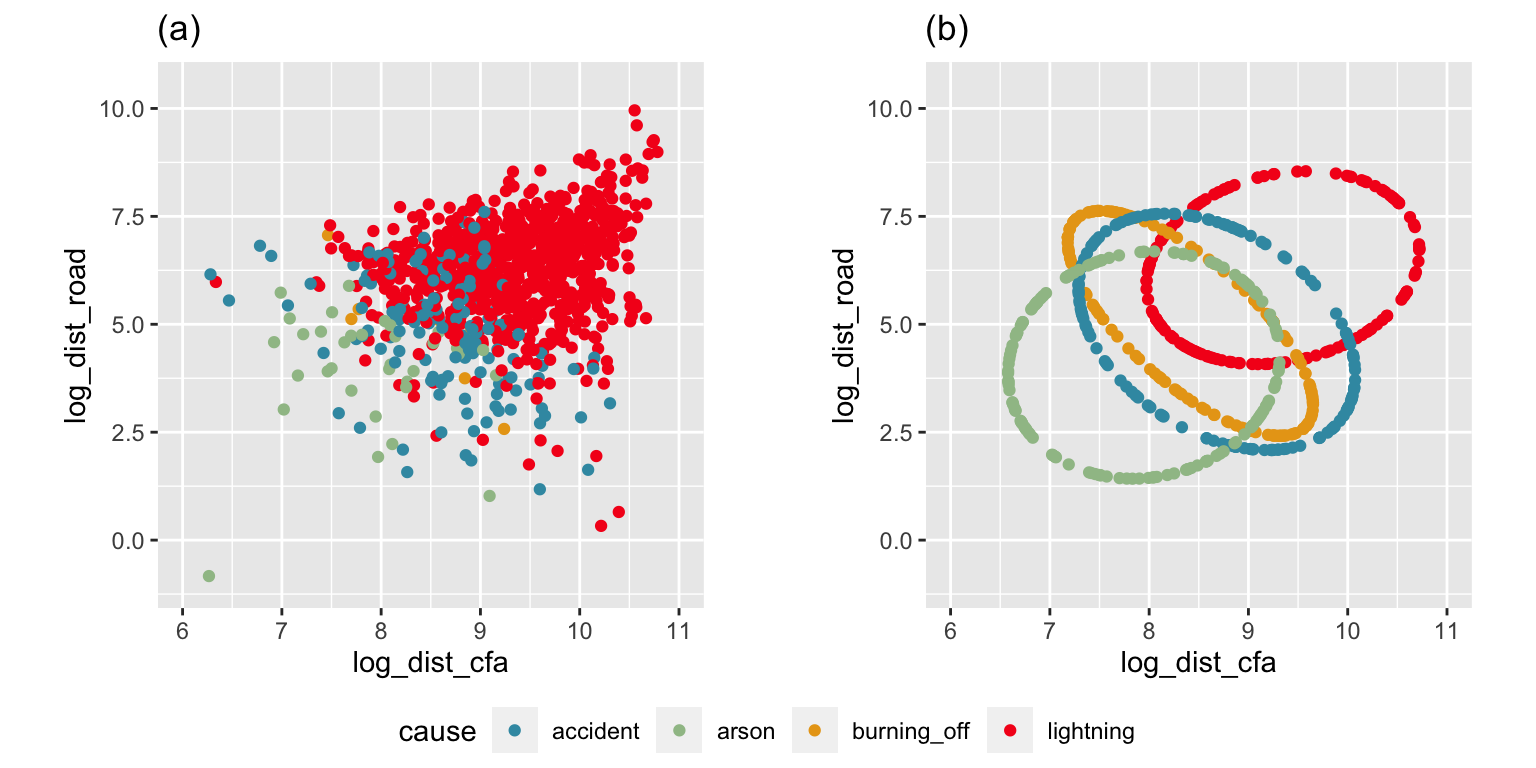
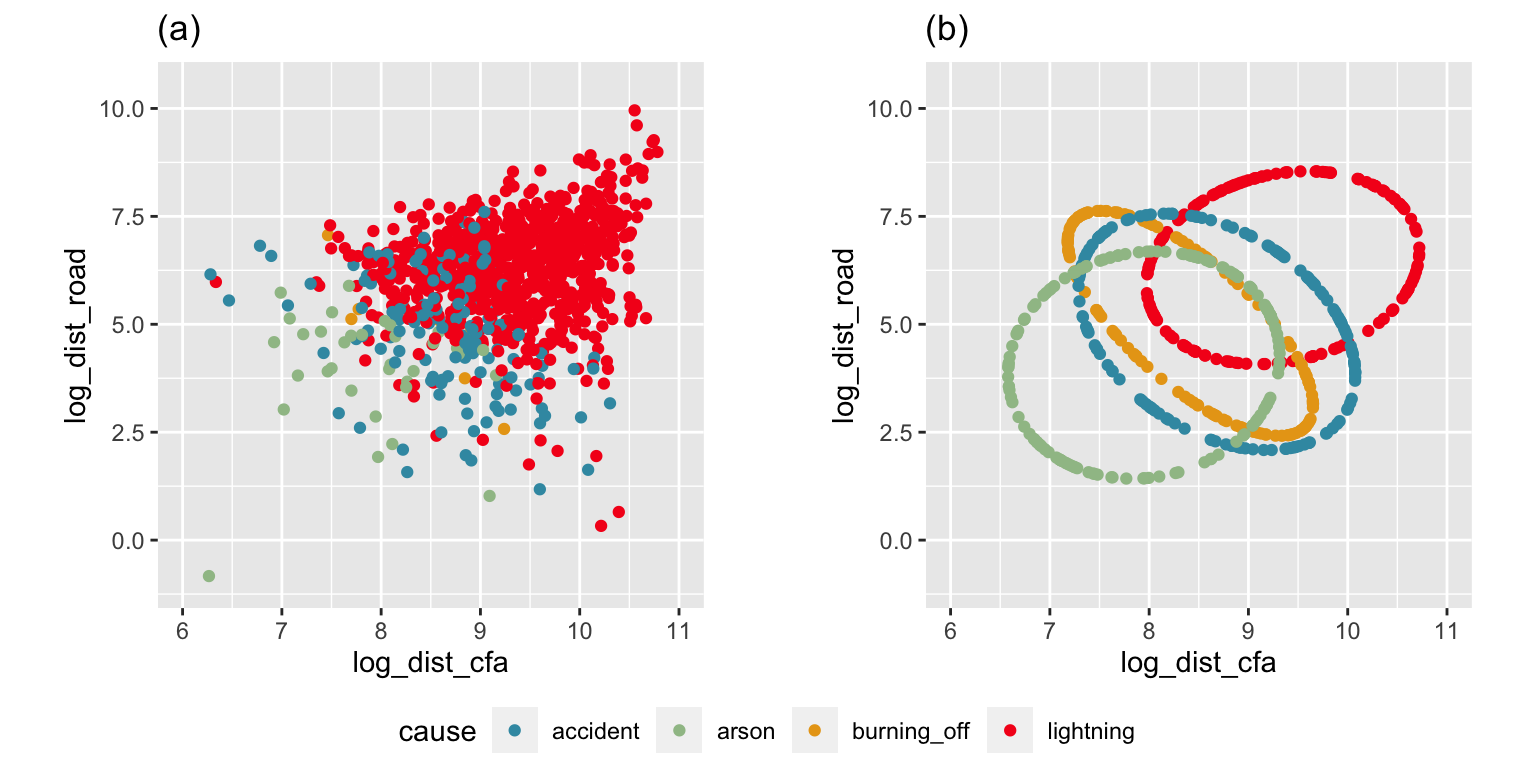
more colouring for the lda chapter

diff --git a/docs/LDA.html b/docs/LDA.html
@@ -416,7 +416,7 @@ div.csl-indent {
 <span id="cb1-9"><a href="#cb1-9" aria-hidden="true" tabindex="-1"></a>                         <span class="at">y=</span>bd, </span>
 <span id="cb1-10"><a href="#cb1-10" aria-hidden="true" tabindex="-1"></a>                         <span class="at">colour=</span>species)) <span class="sc">+</span></span>
 <span id="cb1-11"><a href="#cb1-11" aria-hidden="true" tabindex="-1"></a>  <span class="fu">geom_point</span>() <span class="sc">+</span></span>
-<span id="cb1-12"><a href="#cb1-12" aria-hidden="true" tabindex="-1"></a>  <span class="fu">scale_color_discrete_qualitative</span>(<span class="st">"Dark 3"</span>) <span class="sc">+</span></span>
+<span id="cb1-12"><a href="#cb1-12" aria-hidden="true" tabindex="-1"></a>  <span class="fu">scale_color_discrete_divergingx</span>(<span class="st">"Zissou 1"</span>) <span class="sc">+</span></span>
 <span id="cb1-13"><a href="#cb1-13" aria-hidden="true" tabindex="-1"></a>  <span class="fu">xlim</span>(<span class="sc">-</span><span class="fl">2.5</span>, <span class="dv">3</span>) <span class="sc">+</span> <span class="fu">ylim</span>(<span class="sc">-</span><span class="fl">2.5</span>, <span class="fl">2.5</span>) <span class="sc">+</span></span>
 <span id="cb1-14"><a href="#cb1-14" aria-hidden="true" tabindex="-1"></a>  <span class="fu">ggtitle</span>(<span class="st">"(a)"</span>) <span class="sc">+</span></span>
 <span id="cb1-15"><a href="#cb1-15" aria-hidden="true" tabindex="-1"></a>  <span class="fu">theme</span>(<span class="at">aspect.ratio =</span> <span class="dv">1</span>) </span>
